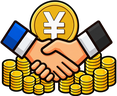
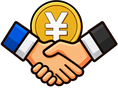
発注：取決め単価の絵を差し替え・数量入力の余白と入力欄を詰める（2026-10-31r）
Claude-Session: https://claude.ai/code/session_012TbevZkSnV7PXPipbhycVU

diff --git a/hacchu.html b/hacchu.html
@@ -1139,7 +1139,7 @@ nav, nav#nav{justify-content:center !important; padding-left:6px !important; pad
    古いものが出続けることがある。そこで ver.txt（数バイト）だけを
    毎回見に行き、公開版と違っていたら保存分を捨てて1回だけ読み直す。
    ★公開のたびに ver.txt と、下の NN_VER を同じ文字に更新すること。 */
-const NN_VER='2026-10-31q';
+const NN_VER='2026-10-31r';
 /* ============ 表示にかかった時間の記録（原因調査用・2026-07-28） ============
    スマホの実機でどこに時間がかかっているかを数字で出す。
    ・net  ＝ページを要求してから最初の返事が来るまで（通信の待ち）
@@ -2765,4 +2765,35 @@ html:root[data-nnphone="1"] body #content .gl2 .g2hd{display:none !important;}
 html:root[data-nnphone="1"] body #content .gl2 .grow.gr2{grid-template-columns:auto auto auto minmax(0,1fr) auto !important; grid-template-areas:"nm nm nm nm nm" "st sp m tk go" !important; row-gap:5px !important; column-gap:6px !important; padding:7px 8px !important;}html:root[data-nnphone="1"] body #content .gl2 .gr2 .gst{grid-area:st !important;}html:root[data-nnphone="1"] body #content .gl2 .g2sp{grid-area:sp !important;}html:root[data-nnphone="1"] body #content .gl2 .g2nm{grid-area:nm !important;}html:root[data-nnphone="1"] body #content .gl2 .g2m{grid-area:m !important; text-align:left !important;}html:root[data-nnphone="1"] body #content .gl2 .g2tk{grid-area:tk !important;}html:root[data-nnphone="1"] body #content .gl2 .g2last{display:none !important;}html:root[data-nnphone="1"] body #content .gl2 .gr2 .gstart{grid-area:go !important; width:auto !important; min-width:92px !important; height:30px !important;}html:root[data-nnphone="1"] body #content .gl2 .g2nm .gnm{font-size:14px !important;}html:root[data-nnphone="1"] body #content .gl2 .g2nm small{font-size:10.5px !important;}html:root[data-nnphone="1"] body #content .gl2 .gr2 .gkou{height:40px !important; width:auto !important; max-width:64px !important; object-fit:contain !important; border:0 !important; margin:0 !important; background:none !important;}html:root[data-nnphone="1"] body #content .gl2 .g2grp small{font-size:10.5px !important;}html:root[data-nntheme="dark"] body #content .gl2 .grow.gr2{background:#16232c !important; border-color:#2c4250 !important;}html:root[data-nntheme="dark"] body #content .gl2 .g2nm .gnm{color:#e7eef3 !important;}
 html:root[data-nnphone="1"] body #content .gl2 .g2tk>span:not(.g2un){display:none !important;}
 html:root body #content .gl2 .g2nm .gnm{border:0 !important; padding:0 !important; background:none !important; box-shadow:none !important; flex:none !important;}
+</style>
+<style id="nn-hacchu-edit-1031r">
+/* ★2026-10-31r 本人「発注（数量入力）が下までスクロールしないと発注できない。高さの余白や入力欄が無駄にでかい」
+   ・見出し（発注情報／発注明細）の帯を薄く、現場名の札は見出しと同じ行へ
+   ・発注先・希望納期・納入場所は1行36pxに
+   ・明細（スマホ）：1品＝2段（上＝品名・規格と✕／下＝単価｜数量｜単位｜金額の4つを横1列）。1品183px→約80px */
+html:root body #content .panel{padding:8px 10px !important; margin-bottom:8px !important;}
+html:root body #content .panel>h4{display:flex !important; flex-wrap:wrap; align-items:center; gap:4px 10px; margin:0 0 6px !important; padding:4px 6px 5px !important; min-height:0 !important;}
+html:root body #content .panel>h4 .httl{margin:0 !important;}
+html:root[data-nnphone="1"] body #content .panel>h4 .httl{transform:scale(.82); transform-origin:left center;}
+html:root body #content .panel>h4 .tag{margin:0 !important;}
+html:root body #content .panel>h4 .sub{display:block; flex:1 1 100%; margin:0 !important; font-size:11.5px !important; line-height:1.4 !important;}
+html:root body #content .panel>h4 .sub .tki{height:16px;}
+html:root body #content .frow{min-height:0 !important; margin-bottom:5px !important; gap:8px !important; flex-wrap:nowrap !important;}
+html:root body #content .frow label{min-width:64px !important; flex:none;}
+html:root body #content .frow input, html:root body #content .frow select{min-height:0 !important; height:36px !important; padding-top:0 !important; padding-bottom:0 !important; font-size:14px !important; flex:1 1 auto; min-width:0; width:auto !important;}
+html:root body #content .total-line{margin-top:6px !important; padding:4px 0 !important;}
+html:root body #content .order-actions .btn-ok, html:root body #content .order-actions .btn-ghost{min-height:0 !important; padding-top:8px !important; padding-bottom:8px !important;}
+/* スマホの明細 */
+html:root[data-nnphone="1"] body #content .item-tbl tr{grid-template-columns:1.25fr 1fr .55fr 1fr !important; margin-bottom:6px !important;}
+html:root[data-nnphone="1"] body #content .item-tbl td{padding:4px 6px !important;}
+html:root[data-nnphone="1"] body #content .item-tbl td.nm{padding:5px 40px 5px 8px !important; font-size:13.5px; line-height:1.3;}
+html:root[data-nnphone="1"] body #content .item-tbl td.nm small{display:inline !important; margin-left:6px; font-size:11px !important;}
+html:root[data-nnphone="1"] body #content .item-tbl td::before{font-size:9.5px !important; margin-bottom:1px !important; line-height:1.2;}
+html:root[data-nnphone="1"] body #content .item-tbl td:not(.nm):not(.del){display:flex !important; flex-direction:column; justify-content:center; font-size:13px; border-left:1px solid #e1e7df !important;}
+html:root[data-nnphone="1"] body #content .item-tbl td:nth-child(2){border-left:0 !important;}
+html:root[data-nnphone="1"] body #content .item-tbl .lockprice{gap:2px; font-size:13px; white-space:nowrap;}
+html:root[data-nnphone="1"] body #content .item-tbl .lockprice .tki.lk{height:16px;}
+html:root[data-nnphone="1"] body #content .item-tbl .qty, html:root[data-nnphone="1"] body #content .item-tbl .uprice{min-height:0 !important; height:32px !important; width:100% !important; max-width:none !important; padding:0 6px !important; font-size:15px !important;}
+html:root[data-nnphone="1"] body #content .item-tbl td.del{min-height:0 !important; height:30px !important; width:36px !important;}
+html:root[data-nnphone="1"] body #content .item-tbl td select{width:100%; padding:0 2px !important; height:32px;}
 </style>

diff --git a/_check/hcedit.js b/_check/hcedit.js
@@ -1,0 +1,23 @@
+/* 発注「②数量入力」（2026-10-31r）：スマホで1品の行が低い・入力欄が大きすぎない。 node _check/hcedit.js [hacchu.html] */
+const {chromium}=require('/opt/node22/lib/node_modules/playwright');
+const path=require('path'), fs=require('fs');
+const file=process.argv[2]||'hacchu.html', root=path.resolve(__dirname,'..');
+let ng=0; const ok=(t,c,d)=>{ console.log((c?'○ ':'★NG ')+t+' '+JSON.stringify(d)); if(!c)ng++; };
+(async()=>{
+ const b=await chromium.launch({executablePath:'/opt/pw-browsers/chromium-1194/chrome-linux/chrome'});
+ const p=await b.newPage({viewport:{width:390,height:844},isMobile:true,hasTouch:true,deviceScaleFactor:2});
+ await p.route('https://hcedit.test/**',async r=>{let f=decodeURIComponent(new URL(r.request().url()).pathname.slice(1)); if(f==='hacchu.html')f=file;
+   const q=path.resolve(root,f); if(fs.existsSync(q)) r.fulfill({path:q}); else r.fulfill({status:404,body:''});});
+ await p.goto('https://hcedit.test/hacchu.html'); await p.waitForTimeout(1200);
+ await p.locator('#nnPick .nnPk').first().click(); await p.waitForTimeout(500);
+ await p.locator('.gstart:not([disabled])').first().click(); await p.waitForSelector('.item-tbl');
+ const q=await p.evaluate(()=>({rows:[...document.querySelectorAll('.item-tbl tr')].filter(r=>!r.querySelector('th')).map(r=>Math.round(r.getBoundingClientRect().height)),
+   qty:Math.round(document.querySelector('.item-tbl .qty').getBoundingClientRect().height),
+   frow:[...document.querySelectorAll('#content .frow')].map(r=>Math.round(r.getBoundingClientRect().height)),
+   cells:(()=>{const r=document.querySelector('.item-tbl tr:not(:has(th))'); const t=[...r.children].filter(c=>!c.classList.contains('nm')&&!c.classList.contains('del')).map(c=>Math.round(c.getBoundingClientRect().top)); return t;})()}));
+ ok('1品の行は100px以下',q.rows.length>0&&q.rows.every(h=>h<=100),q.rows);
+ ok('単価・数量・単位・金額が横1列',new Set(q.cells).size===1,q.cells);
+ ok('数量の入力欄は40px以下',q.qty<=40,q.qty);
+ ok('発注先などの行は44px以下',q.frow.every(h=>h<=44),q.frow);
+ await b.close(); console.log(ng?'★NG '+ng:'全部○');
+})();

diff --git a/index.html b/index.html
@@ -513,7 +513,7 @@ nav, nav#nav{overflow:visible; padding-top:2px;}
 
 <!-- 版の表示：スマホに届いている中身がどれかを、お互いに確認するための小さな印。
      不要になったらこの1行と #nnver の指定を消してください。 -->
-<div id="nnver">v2026-10-31 q</div>
+<div id="nnver">v2026-10-31 r</div>
 <script>
 /* ============ 実機の計測結果を表示（原因調査用・2026-07-28） ============
    数字の意味（単位はミリ秒）
@@ -870,7 +870,7 @@ nav, nav#nav{justify-content:center !important; padding-left:6px !important; pad
    古いものが出続けることがある。そこで ver.txt（数バイト）だけを
    毎回見に行き、公開版と違っていたら保存分を捨てて1回だけ読み直す。
    ★公開のたびに ver.txt と、下の NN_VER を同じ文字に更新すること。 */
-const NN_VER='2026-10-31q';
+const NN_VER='2026-10-31r';
 /* ============ 表示にかかった時間の記録（原因調査用・2026-07-28） ============
    スマホの実機でどこに時間がかかっているかを数字で出す。
    ・net  ＝ページを要求してから最初の返事が来るまで（通信の待ち）

diff --git a/camera.html b/camera.html
@@ -1301,7 +1301,7 @@ nav, nav#nav{justify-content:center !important; padding-left:6px !important; pad
    古いものが出続けることがある。そこで ver.txt（数バイト）だけを
    毎回見に行き、公開版と違っていたら保存分を捨てて1回だけ読み直す。
    ★公開のたびに ver.txt と、下の NN_VER を同じ文字に更新すること。 */
-const NN_VER='2026-10-31q';
+const NN_VER='2026-10-31r';
 /* ============ 表示にかかった時間の記録（原因調査用・2026-07-28） ============
    スマホの実機でどこに時間がかかっているかを数字で出す。
    ・net  ＝ページを要求してから最初の返事が来るまで（通信の待ち）

diff --git a/genba_map_v36.html b/genba_map_v36.html
@@ -5102,7 +5102,7 @@ nav, nav#nav{justify-content:center !important; padding-left:6px !important; pad
    古いものが出続けることがある。そこで ver.txt（数バイト）だけを
    毎回見に行き、公開版と違っていたら保存分を捨てて1回だけ読み直す。
    ★公開のたびに ver.txt と、下の NN_VER を同じ文字に更新すること。 */
-const NN_VER='2026-10-31q';
+const NN_VER='2026-10-31r';
 /* ============ 表示にかかった時間の記録（原因調査用・2026-07-28） ============
    スマホの実機でどこに時間がかかっているかを数字で出す。
    ・net  ＝ページを要求してから最初の返事が来るまで（通信の待ち）

diff --git a/kirokucho_demo.html b/kirokucho_demo.html
@@ -4964,7 +4964,7 @@ nav, nav#nav{justify-content:center !important; padding-left:6px !important; pad
    古いものが出続けることがある。そこで ver.txt（数バイト）だけを
    毎回見に行き、公開版と違っていたら保存分を捨てて1回だけ読み直す。
    ★公開のたびに ver.txt と、下の NN_VER を同じ文字に更新すること。 */
-const NN_VER='2026-10-31q';
+const NN_VER='2026-10-31r';
 /* ============ 表示にかかった時間の記録（原因調査用・2026-07-28） ============
    スマホの実機でどこに時間がかかっているかを数字で出す。
    ・net  ＝ページを要求してから最初の返事が来るまで（通信の待ち）

diff --git a/kokkosho.html b/kokkosho.html
@@ -2496,7 +2496,7 @@ nav, nav#nav{justify-content:center !important; padding-left:6px !important; pad
    古いものが出続けることがある。そこで ver.txt（数バイト）だけを
    毎回見に行き、公開版と違っていたら保存分を捨てて1回だけ読み直す。
    ★公開のたびに ver.txt と、下の NN_VER を同じ文字に更新すること。 */
-const NN_VER='2026-10-31q';
+const NN_VER='2026-10-31r';
 /* ============ 表示にかかった時間の記録（原因調査用・2026-07-28） ============
    スマホの実機でどこに時間がかかっているかを数字で出す。
    ・net  ＝ページを要求してから最初の返事が来るまで（通信の待ち）

diff --git a/library.html b/library.html
@@ -1195,7 +1195,7 @@ nav, nav#nav{justify-content:center !important; padding-left:6px !important; pad
    古いものが出続けることがある。そこで ver.txt（数バイト）だけを
    毎回見に行き、公開版と違っていたら保存分を捨てて1回だけ読み直す。
    ★公開のたびに ver.txt と、下の NN_VER を同じ文字に更新すること。 */
-const NN_VER='2026-10-31q';
+const NN_VER='2026-10-31r';
 /* ============ 表示にかかった時間の記録（原因調査用・2026-07-28） ============
    スマホの実機でどこに時間がかかっているかを数字で出す。
    ・net  ＝ページを要求してから最初の返事が来るまで（通信の待ち）

diff --git a/shiyo_toroku.html b/shiyo_toroku.html
@@ -1833,7 +1833,7 @@ nav, nav#nav{justify-content:center !important; padding-left:6px !important; pad
    古いものが出続けることがある。そこで ver.txt（数バイト）だけを
    毎回見に行き、公開版と違っていたら保存分を捨てて1回だけ読み直す。
    ★公開のたびに ver.txt と、下の NN_VER を同じ文字に更新すること。 */
-const NN_VER='2026-10-31q';
+const NN_VER='2026-10-31r';
 /* ============ 表示にかかった時間の記録（原因調査用・2026-07-28） ============
    スマホの実機でどこに時間がかかっているかを数字で出す。
    ・net  ＝ページを要求してから最初の返事が来るまで（通信の待ち）

diff --git a/yougo.html b/yougo.html
@@ -1434,7 +1434,7 @@ nav, nav#nav{justify-content:center !important; padding-left:6px !important; pad
    古いものが出続けることがある。そこで ver.txt（数バイト）だけを
    毎回見に行き、公開版と違っていたら保存分を捨てて1回だけ読み直す。
    ★公開のたびに ver.txt と、下の NN_VER を同じ文字に更新すること。 */
-const NN_VER='2026-10-31q';
+const NN_VER='2026-10-31r';
 /* ============ 表示にかかった時間の記録（原因調査用・2026-07-28） ============
    スマホの実機でどこに時間がかかっているかを数字で出す。
    ・net  ＝ページを要求してから最初の返事が来るまで（通信の待ち）

diff --git a/zairyo_toroku.html b/zairyo_toroku.html
@@ -1618,7 +1618,7 @@ nav, nav#nav{justify-content:center !important; padding-left:6px !important; pad
    古いものが出続けることがある。そこで ver.txt（数バイト）だけを
    毎回見に行き、公開版と違っていたら保存分を捨てて1回だけ読み直す。
    ★公開のたびに ver.txt と、下の NN_VER を同じ文字に更新すること。 */
-const NN_VER='2026-10-31q';
+const NN_VER='2026-10-31r';
 /* ============ 表示にかかった時間の記録（原因調査用・2026-07-28） ============
    スマホの実機でどこに時間がかかっているかを数字で出す。
    ・net  ＝ページを要求してから最初の返事が来るまで（通信の待ち）

diff --git a/zumen_sekisan.html b/zumen_sekisan.html
@@ -6348,7 +6348,7 @@ nav, nav#nav{justify-content:center !important; padding-left:6px !important; pad
    古いものが出続けることがある。そこで ver.txt（数バイト）だけを
    毎回見に行き、公開版と違っていたら保存分を捨てて1回だけ読み直す。
    ★公開のたびに ver.txt と、下の NN_VER を同じ文字に更新すること。 */
-const NN_VER='2026-10-31q';
+const NN_VER='2026-10-31r';
 /* ============ 表示にかかった時間の記録（原因調査用・2026-07-28） ============
    スマホの実機でどこに時間がかかっているかを数字で出す。
    ・net  ＝ページを要求してから最初の返事が来るまで（通信の待ち）
